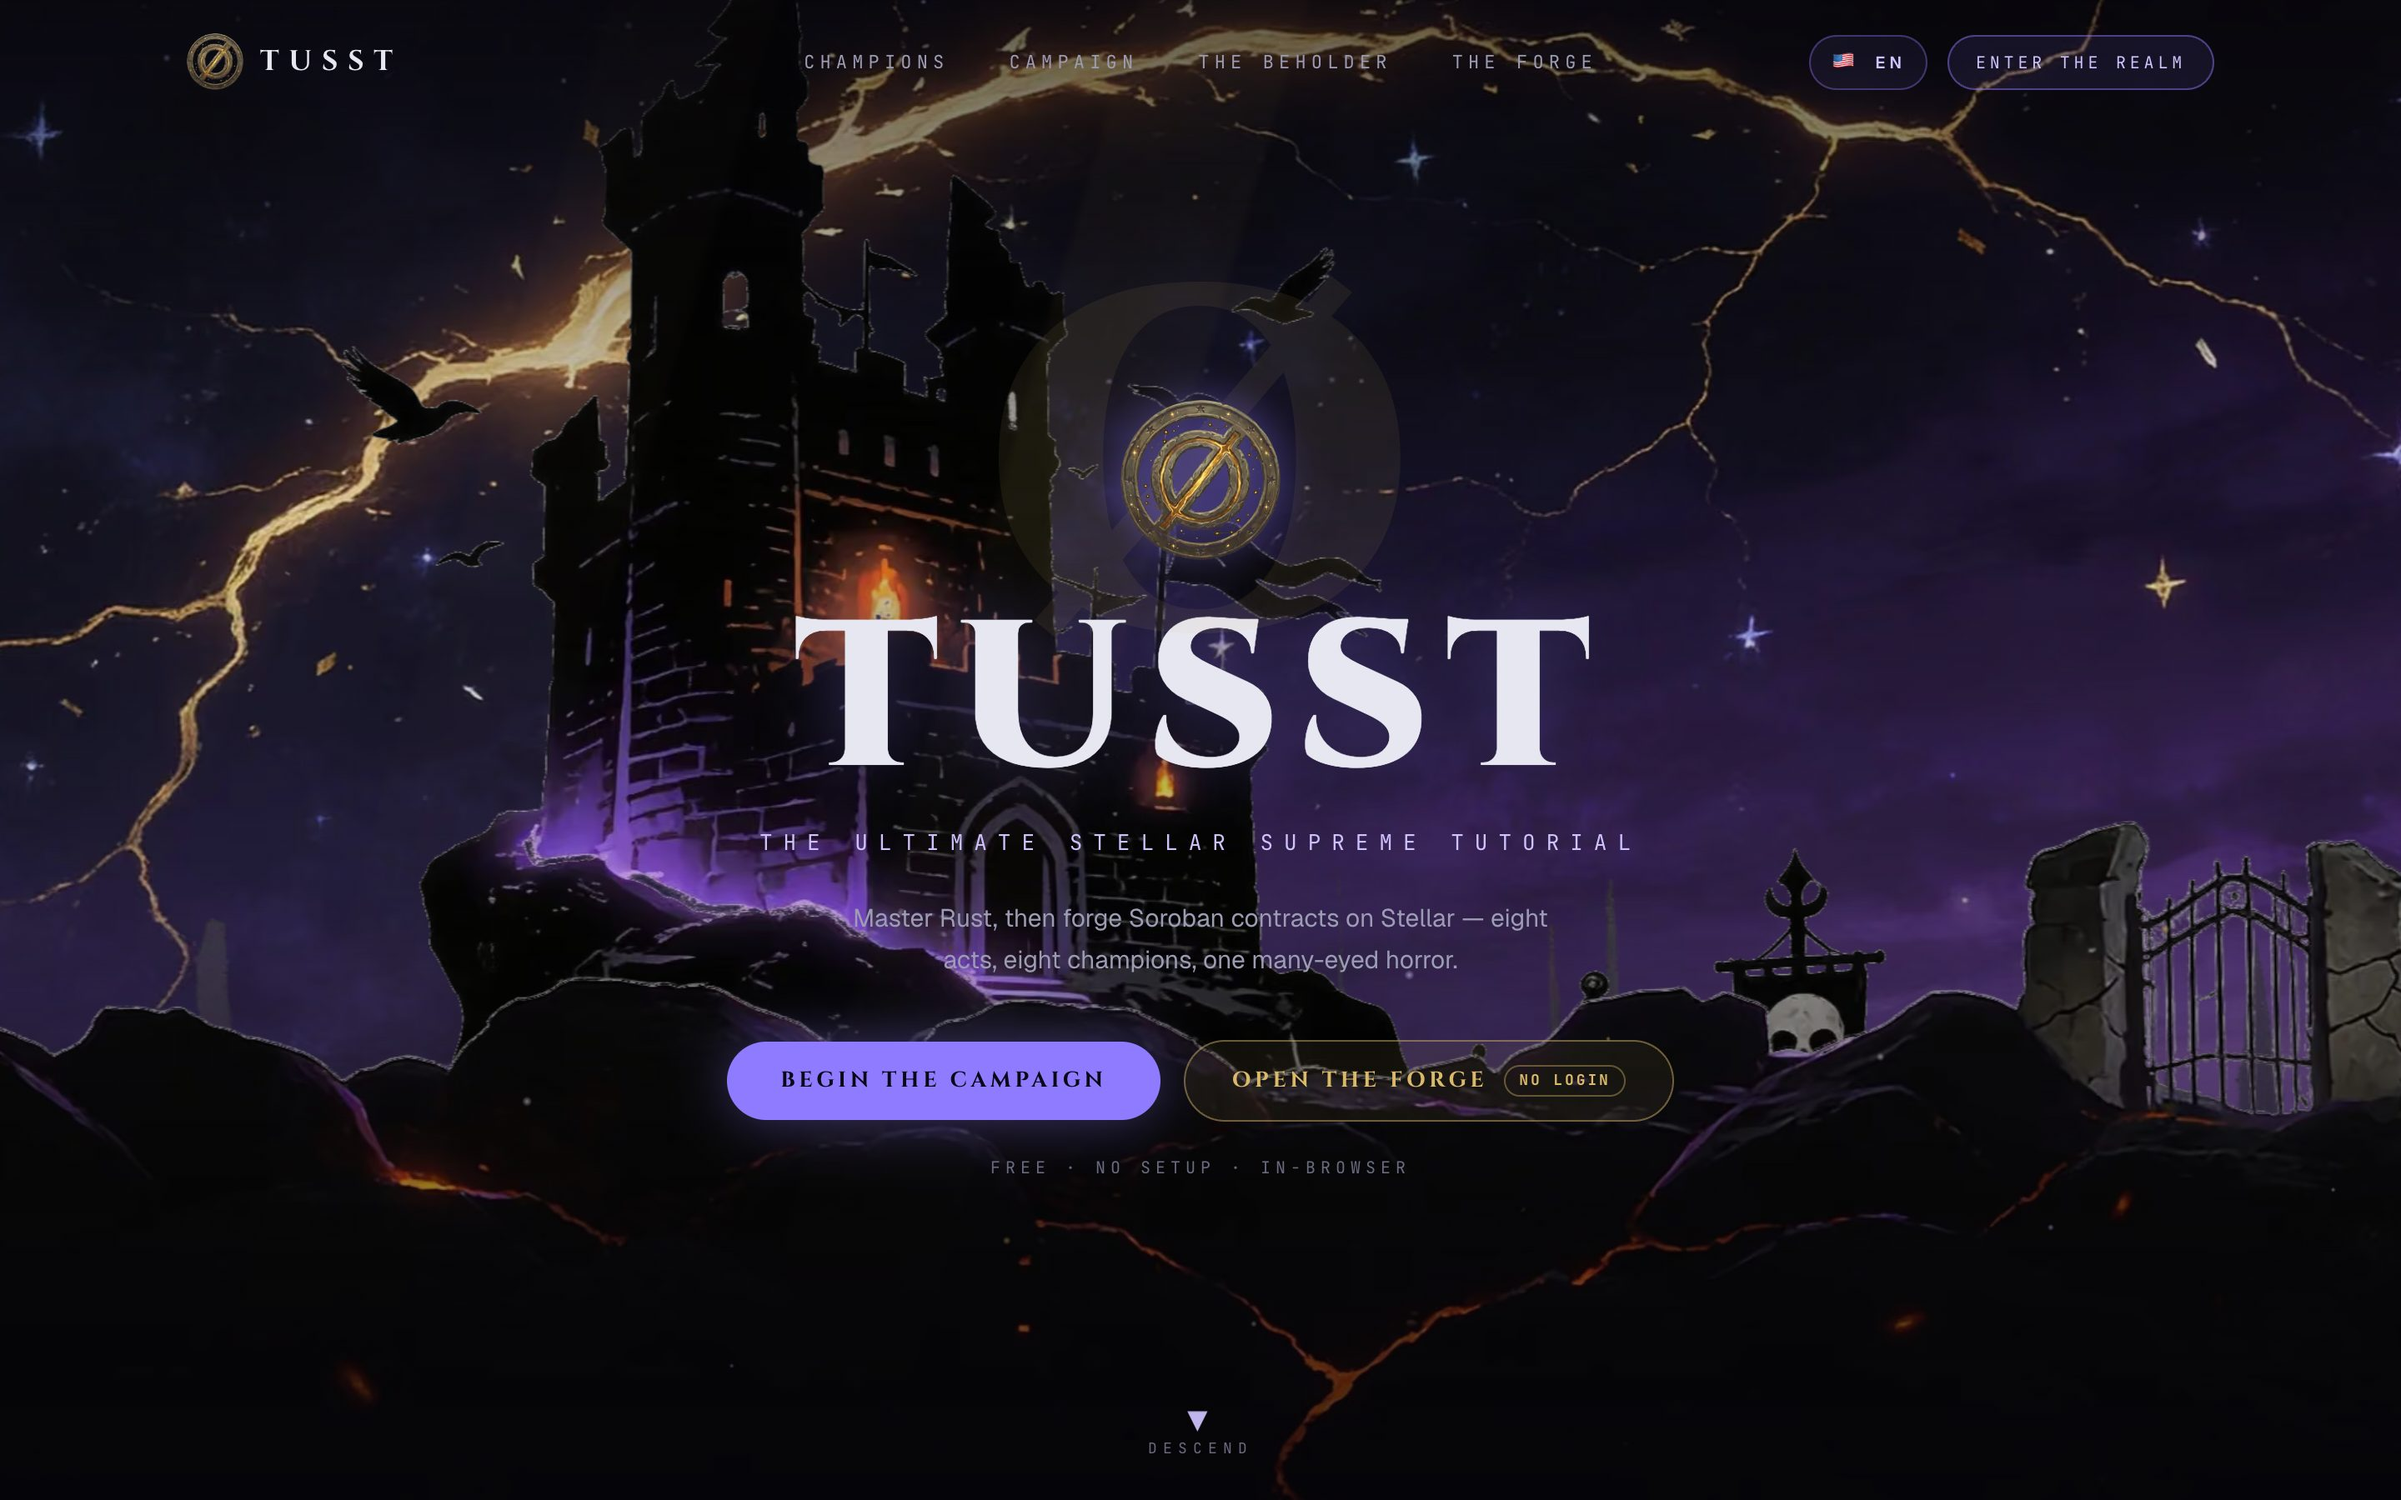
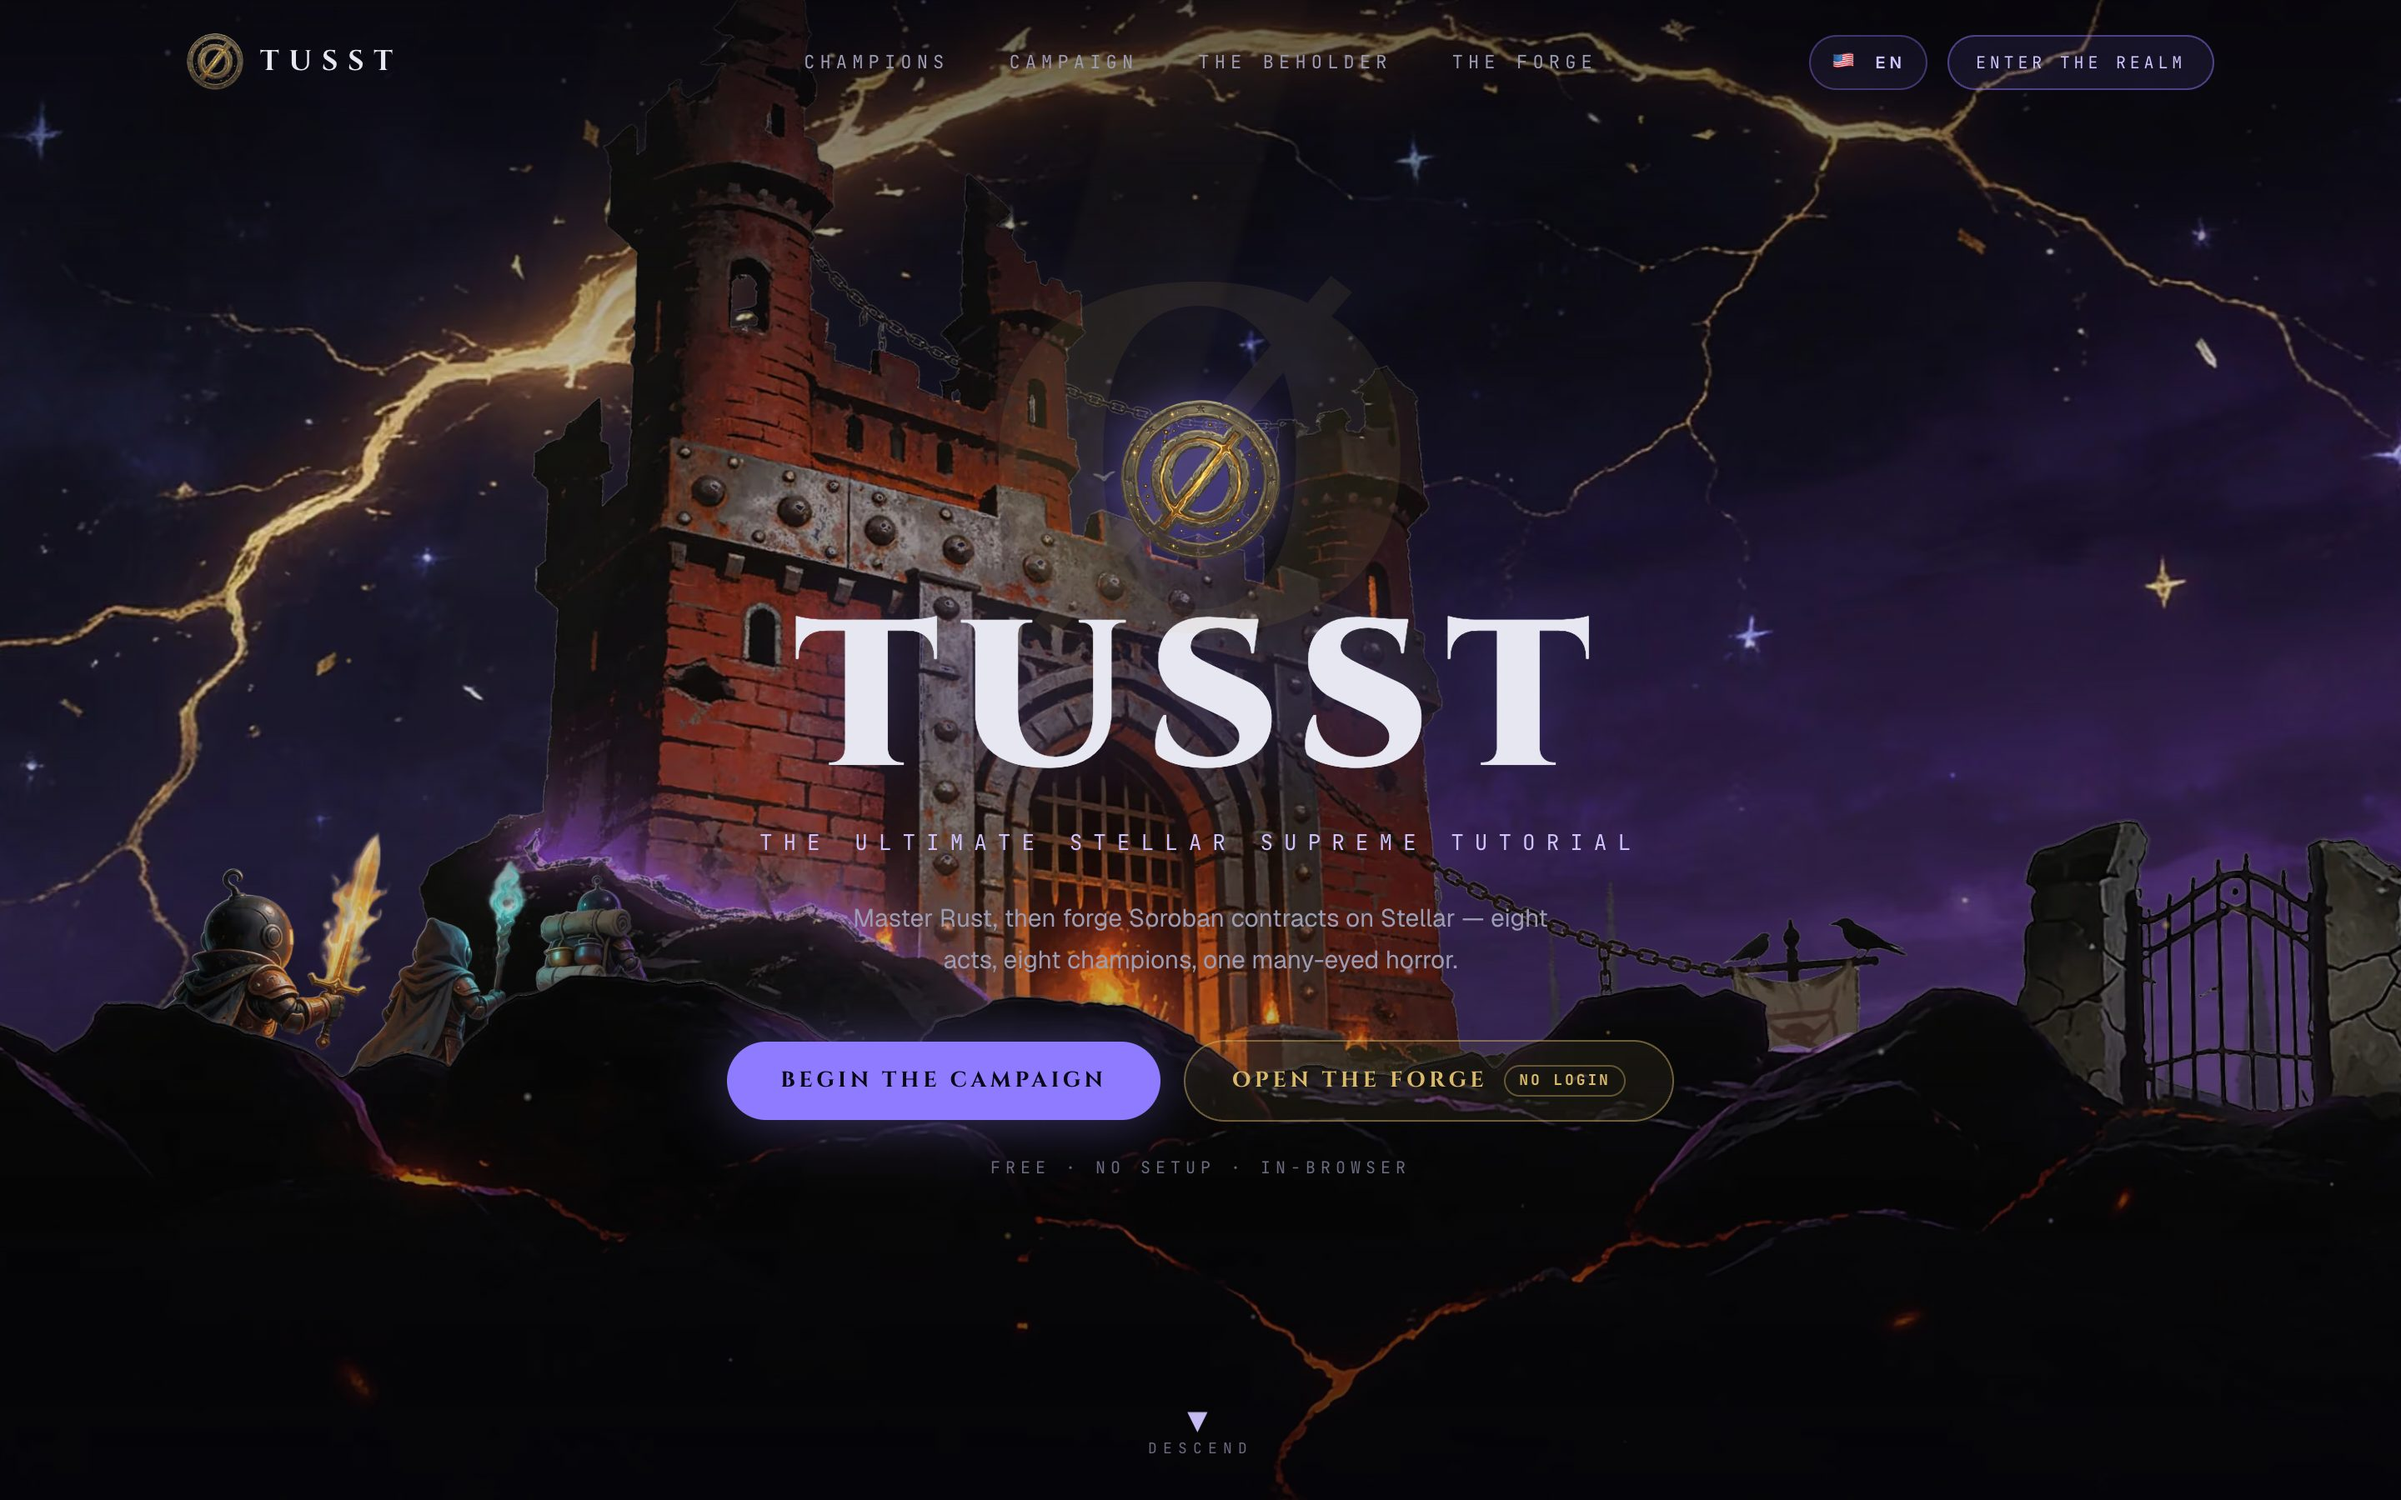
feat(landing): adventuring party marching toward the citadel
Three champion robots — flaming-sword warrior, hooded mage, pack
carrier — crest the foreground rocks heading for the citadel gate,
giving the hero the life it lacked. Saliency-cut sprite (the gray-key
cannot separate a pale slope from the pale backdrop), tight-trimmed by
the pipeline, sharing the foreground rocks' parallax factor so their
feet stay planted; hidden below md where it would crowd the CTAs.
OG image and README screenshot refreshed.

diff --git a/src/components/landing/HeroScene.tsx b/src/components/landing/HeroScene.tsx
@@ -7,7 +7,7 @@ import Image from "next/image";
 import Link from "next/link";
 import type { Messages } from "@/i18n/messages";
 import { Particles } from "./Particles";
-import { SceneLayers } from "./SceneLayers";
+import { SceneLayers, hasLandingAsset } from "./SceneLayers";
 
 export function HeroScene({
   m,
@@ -23,6 +23,34 @@ export function HeroScene({
           { src: "/landing/hero/sky.webp", plx: 0.05, mouse: 0.25, priority: true, quality: 75 },
           { src: "/landing/hero/far.webp", plx: 0.12, mouse: 0.45, eager: true },
           { src: "/landing/hero/mid.webp", plx: 0.2, mouse: 0.7, priority: true, quality: 75 },
+        ]}
+      />
+
+      {/* the party marches toward the citadel between the crag and the
+          foreground rocks — same parallax factor as the rocks so their
+          feet stay planted on them */}
+      {hasLandingAsset("/landing/hero/party.webp") && (
+        <div
+          aria-hidden
+          data-plx={0.3}
+          className="ld-plx pointer-events-none absolute bottom-[20%] left-[3%] hidden w-[clamp(240px,24vw,410px)] md:block"
+        >
+          <div data-plx-mouse={1.1}>
+            <Image
+              src="/landing/hero/party.webp"
+              alt=""
+              width={1400}
+              height={895}
+              quality={75}
+              sizes="400px"
+              className="h-auto w-full drop-shadow-[0_16px_26px_rgba(0,0,0,0.6)]"
+            />
+          </div>
+        </div>
+      )}
+
+      <SceneLayers
+        layers={[
           { src: "/landing/hero/fg.webp", plx: 0.3, mouse: 1.1, eager: true, quality: 75, className: "object-bottom" },
         ]}
       />
